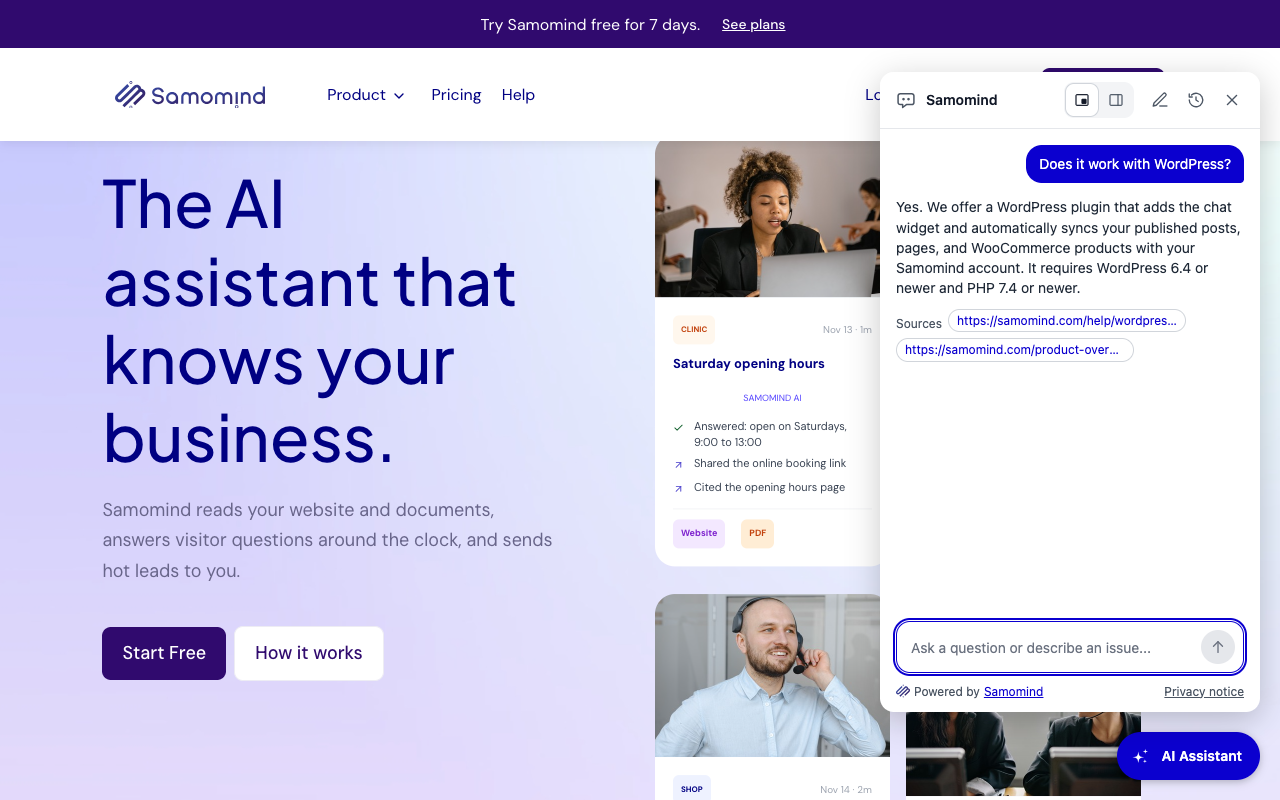
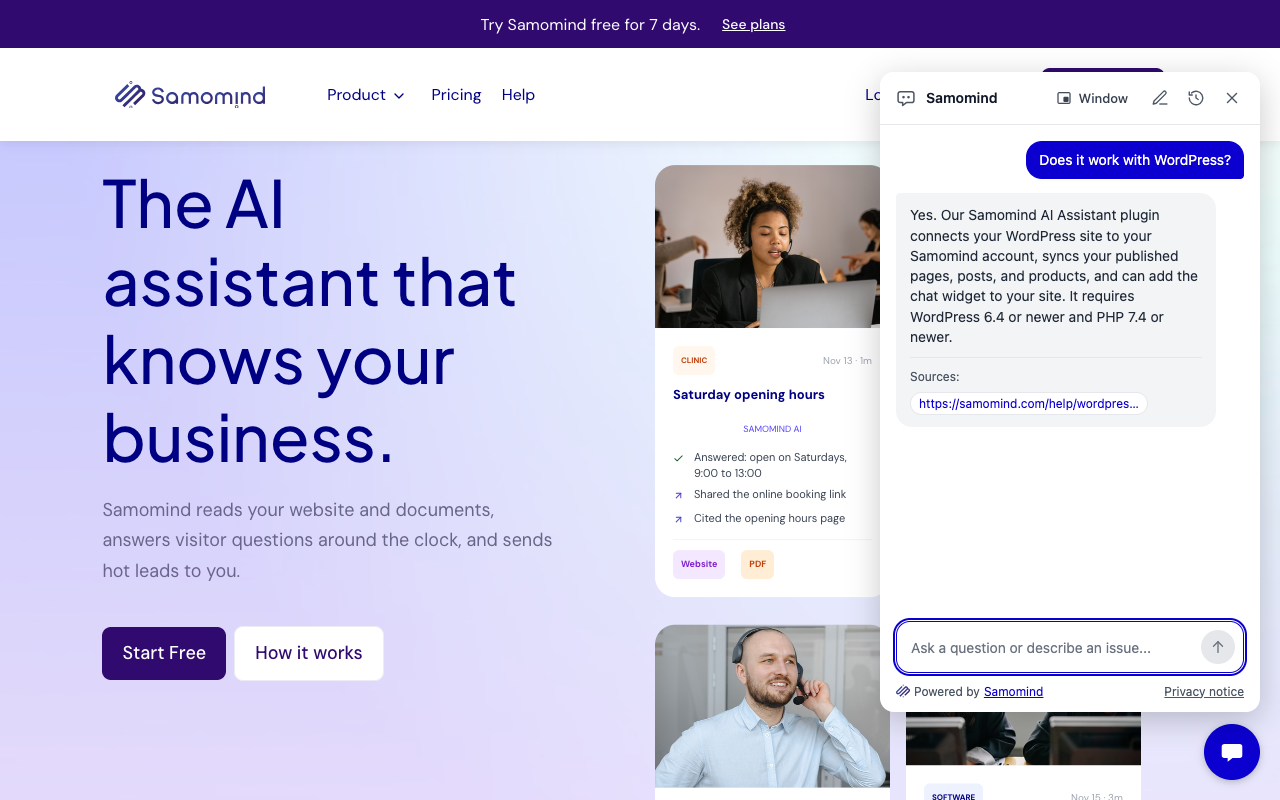
Retake screenshots 1, 3, 4 and 5, add screenshot 6
Screenshots 1 and 6 come from the final code on a new demo site, 3, 4 and 5
from samomind.com with today's widget. The assets table is updated.

Changed region(s): [[0.5, 0.0938, 0.9688, 0.5312], [0.5, 0.5312, 1.0, 1.0], [0.6875, 0.0938, 0.7812, 0.1562]]

diff --git a/.wordpress-org/README.md b/.wordpress-org/README.md
@@ -8,11 +8,12 @@ ones WordPress.org requires.
 |---|---|---|
 | `icon-128x128.png`, `icon-256x256.png` | plugin icon: deep purple #300A6E tile with the white mark (`samomind-mark-dark.svg` from the Samomind logo pack) | 128 and 256 px square |
 | `banner-772x250.png`, `banner-1544x500.png` | page banner: deep purple #300A6E background, the white lockup (`samomind-mono-white.svg`) and the line "Answers your visitors from your own site" | 772 x 250 and 1544 x 500 px |
-| `screenshot-1.png` | Samomind > Settings in 0.4.0: the Connect box, the closed Advanced fold, the content types, the chat widget switch and the start of the order status card (demo site "Acme Studio", no keys, codes or secrets) | 1280 x 1400 |
+| `screenshot-1.png` | Samomind > Settings in 0.4.0 on a new site: the Connect box, the closed Advanced fold, What is synced and the Chat widget card with its texts (demo site "Acme Studio" shown as https://acme-studio.example, plugin not connected, no keys, codes or secrets) | 1280 x 1077 |
 | `screenshot-2.png` | the content types list and the sync status (demo site, fake data) | 1120 x 800 |
-| `screenshot-3.png` | the chat widget's welcome screen on https://samomind.com (Samomind's own site) | 1280 x 800 |
-| `screenshot-4.png` | one answer with its source links, same site (the question "Does it work with WordPress?") | 1280 x 800 |
+| `screenshot-3.png` | the chat widget's welcome screen with suggested questions on https://samomind.com (Samomind's own site, today's widget) | 1280 x 800 |
+| `screenshot-4.png` | one answer in the grey bubble with its source link, same site (the question "Does it work with WordPress?") | 1280 x 800 |
 | `screenshot-5.png` | the widget on a phone-sized screen (390 x 844 at 2x), same site | 780 x 1688 |
+| `screenshot-6.png` | the whole "Order status in the chat" card on Samomind > Settings, from its heading to "Save order status settings" (same demo site, order status off, terms not accepted) | 1280 x 1058 |
 
 A screenshot's number matches its line under `== Screenshots ==` in
 readme.txt. The logo files are Samomind's own artwork, taken from the Samomind logo pack, rasterised as they are and never redrawn; the wordmark is not retyped.
